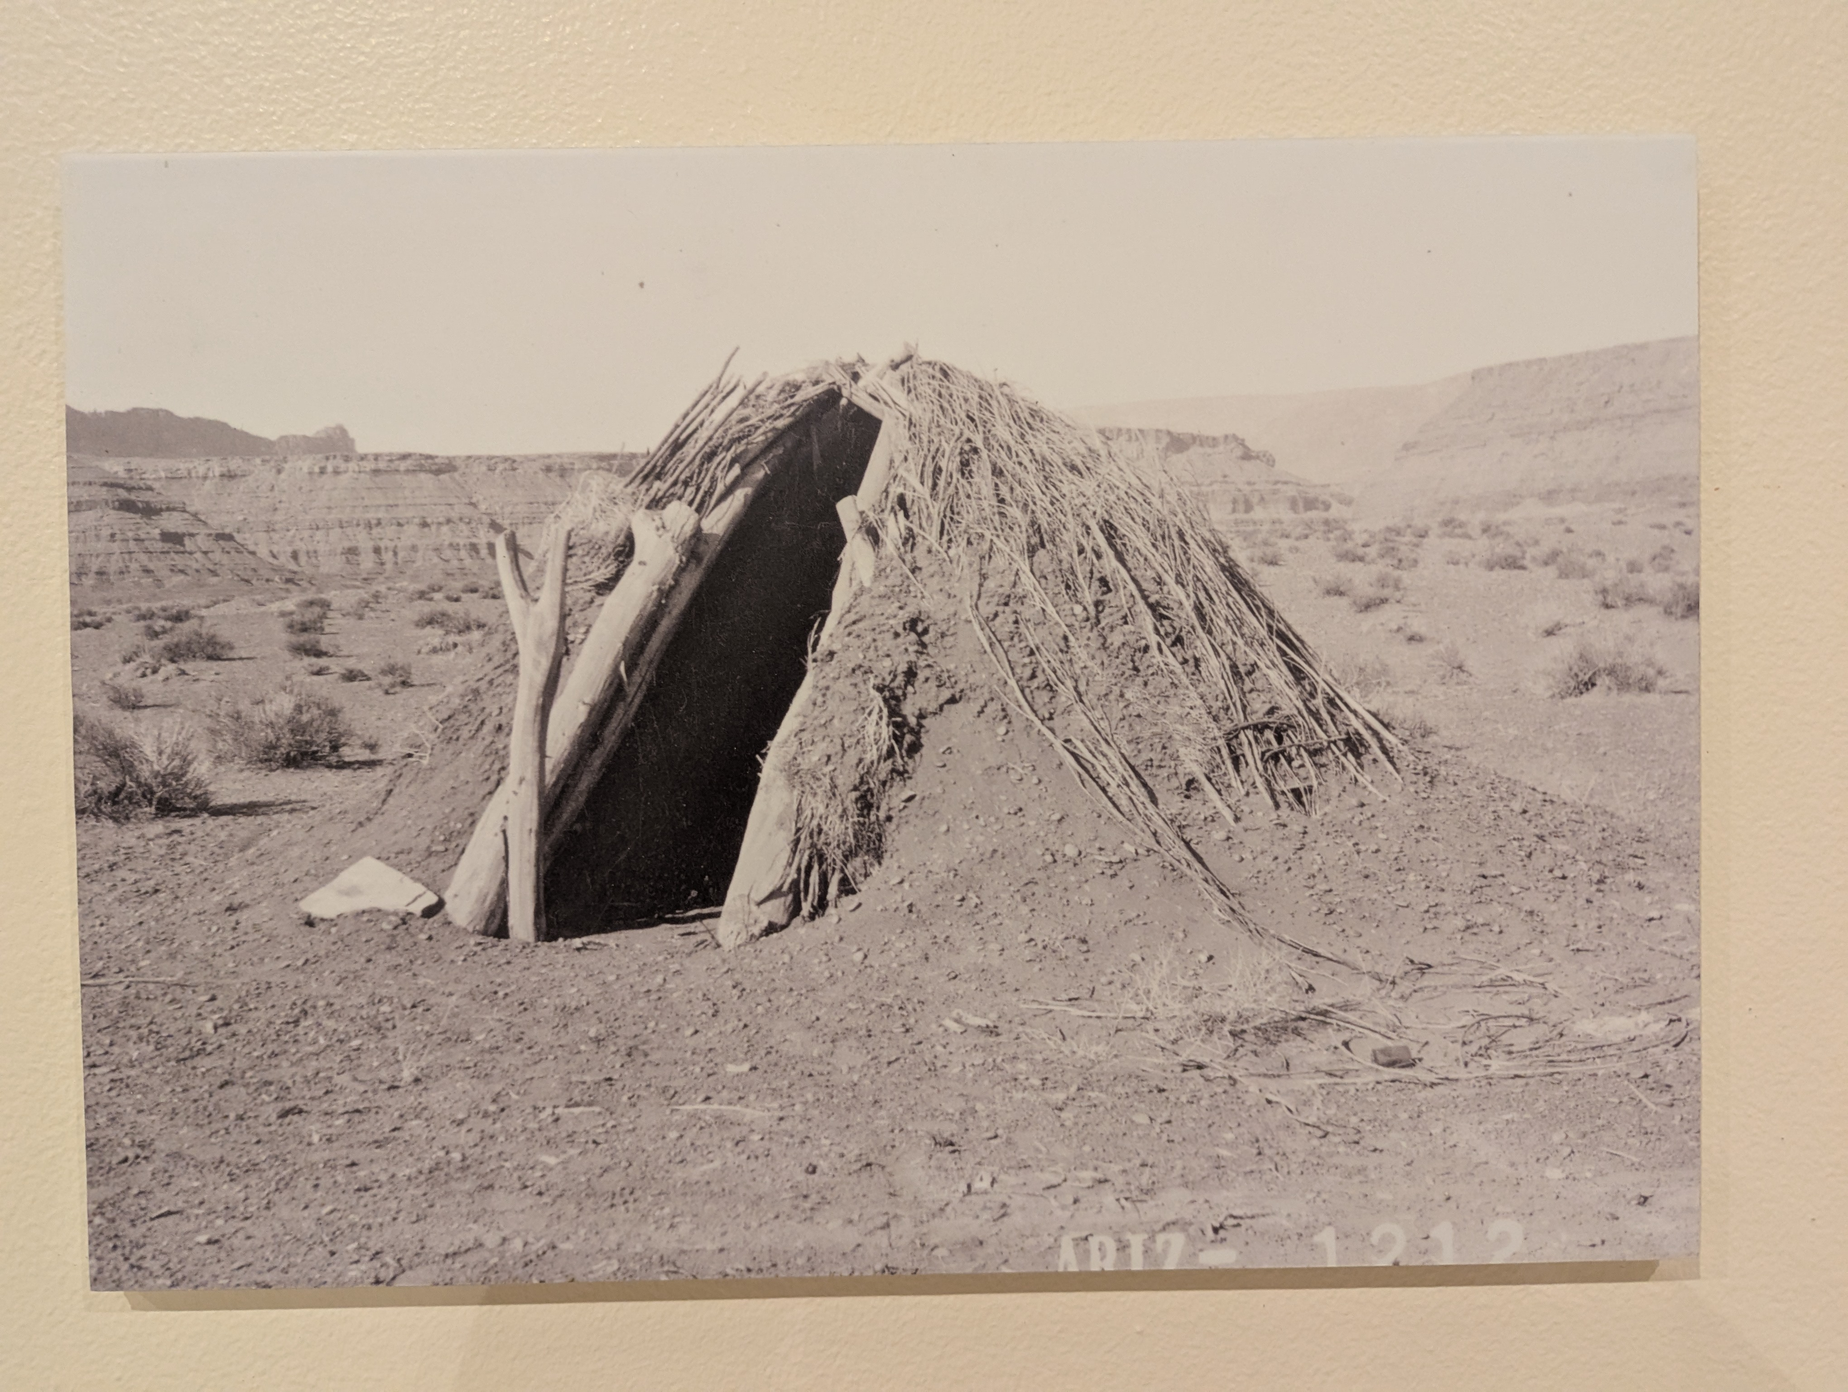
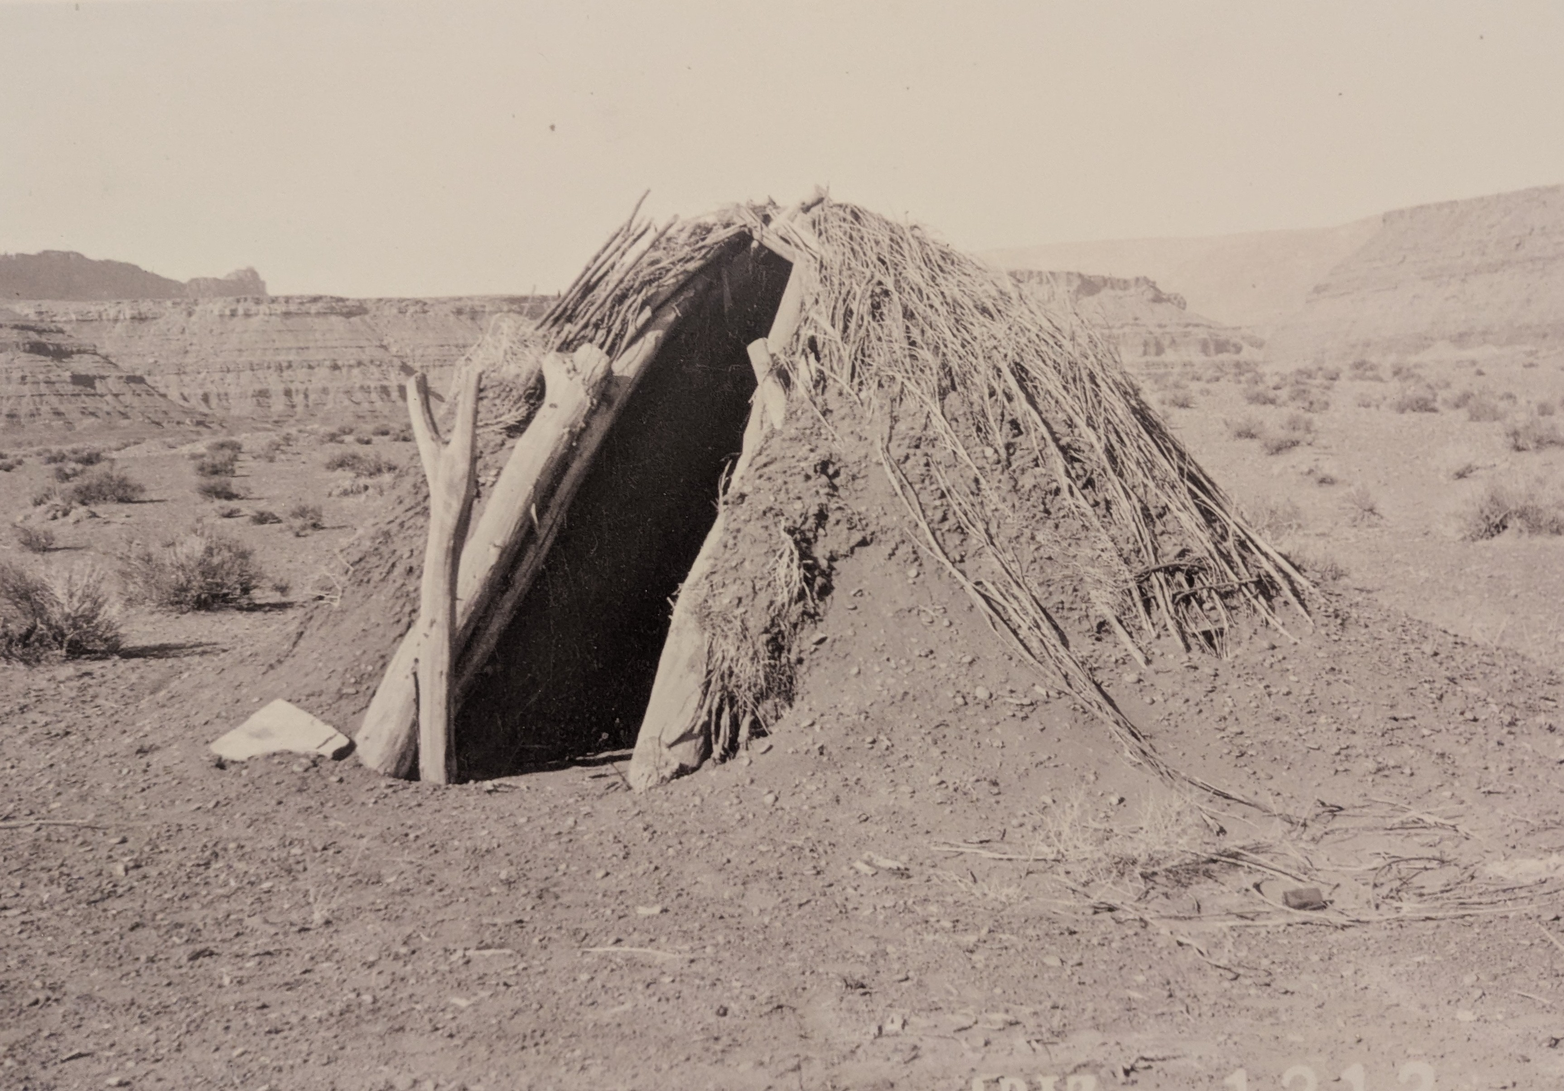
Add images and overhaul index content
Add several new images, rename one image, and perform a substantial content and layout overhaul of index.md. Files added: assets/images/landscape-2.jpg, oraibi-2.jpg, white-horse-hogan-2.jpg; assets/images/oraibi-wash-for-switch-back-landscape-2.jpg renamed to assets/images/oraibi-wash-2.jpg. Updated/modified images: plute-farms-hogan-az.jpg and winter-sheep-corral.jpg. .jekyll-metadata binary updated.

index.md changes: numerous editorial updates (standardizing Diné/Diné Bikéyah terminology), many inserted clearing <br> tags, replacement of the previous Seedling tutorial/filler with substantive historical and cultural content (quotes, blockquote about Hweeldi, discussion of livestock/hooghan), updated scrollybox and image includes (new image paths, captions, alt text, adjusted widths), and added a jumbotron-gradient using the new landscape image. Overall this commit replaces placeholder tutorial content with curated narrative and media for the ScrollStory.

diff --git a/index.md b/index.md
@@ -40,10 +40,16 @@ text="His older sister reported that Snow '...was a demon for self-discipline: s
 %}
 
 <br style="clear: both">
+<br style="clear: both">
+<br style="clear: both">
+<br style="clear: both">
 
-Snow's dedication to honing his skills with a camera eventually led him to work for the Van Bergen-Los Angeles County Museum where he photographed archeological excavations. Over the course of twenty years, from 1937 to 1957, Snow produced thousands of images of Dine people, homes, and landscapes. 
+Snow's dedication to honing his skills with a camera eventually led him to work for the Van Bergen-Los Angeles County Museum where he photographed archeological excavations. Over the course of twenty years, from 1937 to 1957, Snow produced thousands of images of Diné people, homes, and landscapes. 
 
-
+<br style="clear: both">
+<br style="clear: both">
+<br style="clear: both">
+<br style="clear: both">
 
 {::nomarkdown}
 </div> <!-- close main container -->
@@ -90,7 +96,7 @@ image-path="/assets/images/big-belly-nephew-dannie-bia-2.jpg"
 <br>
 <br>
 
-### Despite their origins as instruments of assimilationist propaganda, today the images serve as a rich repository of history and culture for the Dine, who remember when sheep, goats, and horses were the bedrock of a thriving economy.
+### Despite their origins as instruments of assimilationist propaganda, today the images serve as a rich repository of history and culture for the Diné, who remember when sheep, goats, and horses were the bedrock of a thriving economy.
 
 <br>
 <br>
@@ -103,7 +109,7 @@ image-path="/assets/images/big-belly-nephew-dannie-bia-2.jpg"
 <br style="clear: both">
 <br style="clear: both">
 
-**Thousands of his pictures show Dine looking straight at the camera lens, standing in marked contrast to more commonly seen historic images of Indigenous people in which they clearly did not want to be photographed.**
+**Thousands of his pictures show Diné looking straight at the camera lens, standing in marked contrast to more commonly seen historic images of Indigenous people in which they clearly did not want to be photographed.**
 
 
 {% 
@@ -141,7 +147,7 @@ captions = captions
   <div class="container">
 {:/nomarkdown}
 
-**In one photograph, Snow sits next to an elder, with his proximity suggesting that he knew the family of the elder and had taken their photographs several times. In the convention of early American studio portraits, Snow's photographs of individual Dine are often labeled with names and places. He was also known to give copies of the portraits to the person who sat for him.**
+**In one photograph, Snow sits next to an elder, with his proximity suggesting that he knew the family of the elder and had taken their photographs several times. In the convention of early American studio portraits, Snow's photographs of individual Diné are often labeled with names and places. He was also known to give copies of the portraits to the person who sat for him.**
 
 **Today, as we gaze at these beautifully rendered portraits, we are drawn to peoples' faces, to the light reflecting in their eyes, wrinkles etched in skin, the shape of a mouth.**
 
@@ -173,11 +179,16 @@ include scrollybox/bg.html
 above-box-space="50vh"
 below-box-space="50vh"
 height="200vh"
-image-path="/assets/images/landscape-scrollybox.jpg"  
+image-path="/assets/images/oraibi-2.jpg"  
 box-content=" 
 ### Civil Works Administration Project
 In 1934, Snow was hired to work on the Civil Works Administration Project at Wupatki National Monument in Arizona as the photographer and special excavation expert. He then joined the Museum of Northern Arizona in Flagstaff to establish a photographic laboratory. While working in Gallup, New Mexico with the federal Soil Conservation Service in 1935 and 1936, Snow was hired by the Navajo Service to document the supposed improvements to life in Dine Bikeyah following livestock reduction."
 %}
+
+<br style="clear: both">
+<br style="clear: both">
+
+>People were afraid because they were interfered with and were being deprived of their only means of income - their livelihood. That's where they got their wool to sell and their meat, where the wome[n] got their wool to weave, and so forth. They got their groceries by that [sic] means. For those reasons they did not want their sheep to be taken away. - Former tribal official Howard W. Gorman (Diné)
 
 <br style="clear: both">
 <br style="clear: both">
@@ -186,7 +197,7 @@ In 1934, Snow was hired to work on the Civil Works Administration Project at Wup
 
 # Portraits of a Community: K'é (Kinship)
 
-Milton Snow's photographs are unique for the era in which they were made because they suggest that he had positive relationships with his subjects. While we don't know much about what Snow thought of his Dine subjects, it's often remarked that he appeared to be accepted by Dine and that he took photographs in an ethical and responsible manner. 
+Milton Snow's photographs are unique for the era in which they were made because they suggest that he had positive relationships with his subjects. While we don't know much about what Snow thought of his Diné subjects, it's often remarked that he appeared to be accepted by Dine and that he took photographs in an ethical and responsible manner. 
 
 <br style="clear: both">
 <br style="clear: both">
@@ -226,19 +237,19 @@ below-box-space="50vh"
 height="200vh"
 image-path="/assets/images/drying-scrollybox-ah-tso-lige.jpg"  
 box-content=" 
-And we are reminded that the foundation of Dine life, despite and against John Collier's plans to remake Dine into images of American citizens, is the concept of K'é, relationships of how we treat each other with respect, love, and compassion. K'é, as the foundation of the Navajo Nation, extends to Mother Earth and Father Sky and to all beings. K'é endures and we extend kinship and remember through visual images such as Snow's."
+And we are reminded that the foundation of Dine life, despite and against John Collier's plans to remake Diné into images of American citizens, is the concept of K'é, relationships of how we treat each other with respect, love, and compassion. K'é, as the foundation of the Navajo Nation, extends to Mother Earth and Father Sky and to all beings. K'é endures and we extend kinship and remember through visual images such as Snow's."
 %}
 
 ## Moments in Diné Bikéyah:
 
 # Landscape, Community, and Home
 
-For Dine people, knowledge of self and community is rooted in a distinctive sense of
+For Diné people, knowledge of self and community is rooted in a distinctive sense of
 place. 
 
 Place-making is an active cultural and political activity-landscapes both hold
-and generate identities, memories, stories, histories, and knowledge systems. Dine
-Bikeyah, the land between the four sacred mountains, is the foundation of Dine life and teachings.
+and generate identities, memories, stories, histories, and knowledge systems. Diné
+Bikeyah, the land between the four sacred mountains, is the foundation of Diné life and teachings.
 
 
 {% include scrollybox/bg-multi-long.html
@@ -258,7 +269,7 @@ Bikeyah, the land between the four sacred mountains, is the foundation of Dine l
 
 Hung to Dry (Hunter's Point, AZ), 2017
 
-Rapheal Begay (Dine)
+Rapheal Begay (Diné)
 
 Archival inkjet print
 
@@ -269,124 +280,114 @@ This image is one of many fond memories I have of my family's homestead in Tse N
 
 {% include scrollybox/bg-multi-long-close.html after-space="3000" %}
 
+<br style="clear: both">
+<br style="clear: both">
+<br style="clear: both">
+<br style="clear: both">
+
+>The people moved with their sheep whenever and wherever they wished with the seasons. A homesite is not good when a family lives in the same place for too long. The vegetation is tramped on too much, and it never gets a chance to grow away. Long ago, moving with the stock from one place to another was much better than what we do now. It gave the vegetation time to grow again. - Frank Goldtooth (Diné)
+
+<br style="clear: both">
+<br style="clear: both">
+<br style="clear: both">
+<br style="clear: both">
 
 
-
-
-
-
-
-
-
-
-# A Seedling Essay
-This essay demonstrates the **simplest ScrollStory approach**—perfect if you're just learning Markdown or want students to focus on writing rather than complex formatting. As you scroll through, notice the clean, uncluttered design that lets content breathe.
-
-**What makes this a "Seedling" essay?** It uses only basic components: section headings, images with captions, pull quotes, and footnotes. No background switching, no side-scrolling—just straightforward digital storytelling that's more visually engaging than a standard web page.
-
-The text below is mostly filler to show how an essay flows, but we'll call out key features as you encounter them.
-
-
-## Your First Section Heading
 {% include images/figure.html
 class="right"
-width="48%"
-caption="This is a right-aligned image that takes up roughly half the page width. Notice how text wraps around it naturally. [Source](https://rmoa.unm.edu/docviewer.php?docId=nmu1unma028.xml)"
-image-path="/assets/images/mvh-history-stays.jpg"
+width="60%"
+alt-text="A winter sheep corral in Marsh Pass, 1935."
+caption="A winter sheep corral in Marsh Pass. Steamboat Canyon, AZ, 1935. [Source: Maxwell Museum of Anthropology Archives, 87.45.294.](https://maxwellmuseum.unm.edu/)"
+image-path="/assets/images/winter-sheep-corral.jpg"
 %}
 
-This paragraph sits next to a **right-aligned image**. The ScrollStory layout gives images breathing room—you'll never see cramped text squished against a photo. The spacing and typography are designed to feel more like a magazine than a typical web page.
+Navajo sheep have seasonal migration patterns. In the summer, sheep live in grassy
+highlands, and in the winters, they move down into lowlands. Sheepherders move with their sheep across the landscape over the course of their lives.
 
-Notice the caption below the image includes a clickable source link. This is how you maintain scholarly rigor while keeping the visual design clean.[^1]
+<br style="clear: both">
+<br style="clear: both">
 
-[^1]: Footnotes work normally in ScrollStories. Click the number to jump to the note, then click the return arrow to come back. This keeps your main text flowing while providing space for citations and elaboration.
-
-Lorem ipsum dolor sit amet, consectetur adipiscing elit. Vivamus pretium, nibh vel posuere pretium, neque ipsum maximus libero, ac maximus quam ante sit amet dolor. Integer pharetra semper sem sed sagittis. Curabitur mauris tortor, elementum non felis id, hendrerit efficitur metus.
-
-Sed efficitur leo in magna pretium, euismod malesuada risus interdum. Proin sed libero et enim pulvinar convallis non eget est. Sed ultrices dui vitae enim semper accumsan. Duis quis aliquam nulla.
-
-
-## Section Headings Create Visual Breaks
-Each section heading (marked with `##` in Markdown) creates a clear visual break in your essay. This helps readers navigate long-form content and gives you natural places to shift topics or introduce new ideas.
-
-**Why this matters for students:** Breaking essays into clear sections makes writing more manageable. Write one section at a time, preview it, then move to the next. No need to tackle the entire essay at once.
-
-Praesent sed vehicula velit, vel hendrerit neque. Vivamus scelerisque sed nunc nec congue. Curabitur sapien risus, finibus id tincidunt iaculis, porta et ipsum. Cras eu mollis sapien. Sed a mauris finibus orci molestie mollis.
+{% 
+include scrollybox/bg.html
+above-box-space="50vh"
+below-box-space="50vh"
+height="200vh"
+image-path="/assets/images/white-horse-hogan-2.jpg"  
+box-content=" 
+'White Horse's' summer hogon on Douglas Mesa, Steamboat Canyon, AZ, 1936."
+%}
 
 
-## Pull Quotes Add Emphasis
-Pellentesque viverra hendrerit sapien eu consequat. Curabitur leo ante, vestibulum a tincidunt eget, placerat eu nunc. Donec ut sem mi. Vivamus commodo nec sem eget pretium. Nulla ullamcorper volutpat venenatis.
+<br style="clear: both">
+<br style="clear: both">
+<br style="clear: both">
+<br style="clear: both">
 
-{% include typography/aside.html class="right" text="
-This is a pull quote—a design element that highlights important text or quotations. It appears as a semi-transparent box to the right of your main text. Use these sparingly for maximum impact." %}
+{% include images/figure.html
+class="left"
+width="60%"
+alt-text="Hogon near Plute Farms, Kayenta, AZ, 1936."
+caption="Hogan near Plute Farms, Kayenta, AZ, 1936. [Source: Maxwell Museum of Anthropology Archives, 87.45.135.](https://maxwellmuseum.unm.edu/)"
+image-path="/assets/images/plute-farms-hogan-az.jpg"
+%}
 
-The pull quote you just saw is created with a simple `include` command in Markdown. It's one of many reusable components in Xanthan. You can put important quotes, key statistics, or memorable phrases in these boxes to create visual interest and emphasize crucial points.
+The word "hogan" is English for, "hooghan," the Diné word for "home." Hooghan is a
+microcosm of the world; the world begins in the home. Across time and seasons, there are various types of hooghan that suit the climate. There also gender-specific hooghans; a female hooghan is made of earth and rounded, while a fork stick hooghan is male.
 
-Duis eros odio, fringilla et pulvinar vitae, eleifend quis elit. Sed eleifend lectus in bibendum elementum. Vivamus ut velit dignissim, cursus libero nec, commodo orci. Morbi lacus metus, posuere ut pretium ac, malesuada id ligula. Lorem ipsum dolor sit amet, consectetur adipiscing elit. Sed consequat, lacus id blandit ornare, mi nisi rutrum ante, vitae dignissim mauris nisl mattis nisl.
+Livestock organized life. Extended kin networks followed sheep to grazing pastures across the seasons. Ceremonial cycles of songs and prayers included blessings for livestock and connected kin to Mother Earth. Sheep, goats, and horses taught children values of hard work, integrity, love, and compassion.
 
+<br style="clear: both">
+<br style="clear: both">
+<br style="clear: both">
+<br style="clear: both">
 
-### Subsection Headings (Optional)
-If you need more structure within a section, use subsection headings (marked with `###`). These are slightly smaller than main section headings and help organize complex topics without breaking up the flow too much.
+{::nomarkdown}
+</div> <!-- close main container -->
 
-**Most student essays won't need subsections**—stick with main sections (`##`) unless you're writing something particularly detailed. Simpler is usually better.
+<div class="section-alt">
+  <div class="container">
+{:/nomarkdown}
 
-Duis ut dui dolor. Integer eu lectus at tellus accumsan euismod eget a ligula. Morbi venenatis, elit eu varius fermentum, ligula est dictum massa, sit amet ullamcorper augue nisl ut nunc. Integer placerat vitae metus vitae faucibus.
-
-
-## Images Can Be Different Widths
-{% include images/figure.html class="right" width="60%" caption="This image is set to 60% width instead of 48%, giving it more prominence. You can adjust image widths to suit your content. [Source](https://rmoa.unm.edu/docviewer.php?docId=nmu1unma028.xml)" image-path="/assets/images/mvh-floorplan.jpg" %}
-
-The image to the right is **wider than the previous one** (60% instead of 48%). You control this with the `width` parameter in the image code. Want a small image? Use 30%. Want something that dominates? Try 70%.
-
-Images can also be left-aligned (use `class="left"`) or centered full-width (we'll show that in more advanced essays). For Seedling level, right-aligned images at 48-60% width work well for most purposes.
-
-Duis vehicula erat et diam pharetra iaculis. Etiam rutrum scelerisque nunc, ut interdum justo pellentesque sit amet. Vivamus cursus massa mauris, a finibus felis laoreet quis. Integer vel molestie neque.
-
-
-## The Rhythm of a ScrollStory
-By now you've scrolled through several sections and noticed the **rhythm** of a ScrollStory: heading, text, image, text, pull quote, text. This creates a visual cadence that keeps readers engaged without overwhelming them.
-
-**For your own essay:** Think about pacing. Where do readers need a visual break? Where should an image reinforce your argument? When does a pull quote emphasize a key point? These decisions make the difference between a wall of text and an engaging narrative.
-
-Lorem ipsum dolor sit amet, consectetur adipiscing elit. Vivamus pretium, nibh vel posuere pretium, neque ipsum maximus libero, ac maximus quam ante sit amet dolor. Integer pharetra semper sem sed sagittis. Aliquam in sapien mauris. Aliquam erat volutpat.
-
-Nunc congue ultrices lacus, a efficitur massa pulvinar at. Sed luctus orci sed sem commodo, in rhoncus orci sagittis. Duis in sagittis arcu. Donec dictum aliquam congue. Nulla varius ipsum vitae nibh dapibus, et tincidunt turpis gravida.
+**The federal government's effort to eradicate Indigenous people included the violent removal of Diné people from their homelands, after a scorch and burn campaign led to their surrender. In the fall of 1863, Diné prisoners were forcibly sent to the Bosque Redondo reservation at Fort Sumner, New Mexico. While interned, they endured harsh living conditions for four years. On June 1, 1868, Diné leaders successfully negotiated their peoples' return to Diné Bikeyah, realizing the People's fervent dream to return to their homeland. We call this experience Hweeldi.**
 
 
-## Block Quotes for Extended Quotations
-Sed efficitur leo in magna pretium, euismod malesuada risus interdum. Proin sed libero et enim pulvinar convallis non eget est. Sed ultrices dui vitae enim semper accumsan. Duis quis aliquam nulla. Aenean scelerisque lacus vel pretium viverra.
 
-> This is a block quote, created by putting a `>` symbol before your text. Use these for extended quotations from primary sources, scholarly works, or historical documents. They're visually distinct from pull quotes—block quotes span the full text width, while pull quotes float to the side.
+{::nomarkdown}
+  </div>
+</div>
+{:/nomarkdown}
 
-Block quotes work well when you want to quote an entire paragraph or passage, while pull quotes are better for short, punchy excerpts you want to highlight visually.
-
-
-## What You've Learned So Far
-If you can create this Seedling essay, you can:
-- Structure content with section headings
-- Add images with captions and source links
-- Include footnotes for citations
-- Use pull quotes for emphasis
-- Format block quotes for extended quotations
-- Control image sizes and placement
-
-**That's enough to create compelling digital scholarship.** The Sapling and Forest essays add more sophisticated features, but this foundation works for most student projects and many professional ones too.
-
-Duis eros odio, fringilla et pulvinar vitae, eleifend quis elit. Sed eleifend lectus in bibendum elementum. Vivamus ut velit dignissim, cursus libero nec, commodo orci. Morbi lacus metus, posuere ut pretium ac, malesuada id ligula.
+{::nomarkdown}
+<div class="container"> <!-- reopen main container -->
+{:/nomarkdown}
 
 
-## Ready to Create Your Own?
 
-**New to Xanthan?** Start with the [Getting Started guide](../../../docs/getting-started/) to create your own site first. Once you have a working site, come back here to build your ScrollStory.
+{% include images/jumbotron-gradient.html
+  image-path="/assets/images/landscape-2.jpg"
+  fade-start="50%"
+  fade-end="100%"
+  title=""
+  text="
 
-**Already have a site based on a Xanthan template?** To make your own Seedling essay:
+<br>
+<br>
+<br>
+<br>
 
-1. **Duplicate this folder** (`scrollstories/seedling/`) and rename it for your topic
-2. **Replace the text** with your own content, keeping the same structure
-3. **Add your own images** to the `images/` folder
-4. **Update the header** at the top (title, author, date, etc.)
-5. **Preview and adjust** spacing, image sizes, and flow
+### With the Treaty of 1868 signed, the People came home to a much-reduced land base. Despite this, they returned to their former home places, including those beyond the designated treaty land boundaries, and once again took up livestock raising.
 
-Start simple. Get comfortable with the basics. You can always add complexity later by copying and pasting elements from the other essays.
+<br>
+<br>
+<br>
+<br>
+
+"
+%}
+
+<br style="clear: both">
+<br style="clear: both">
+<br style="clear: both">
+<br style="clear: both">
 
 {% include scrollybox/auto-scroll.html speed=1.5 %}
